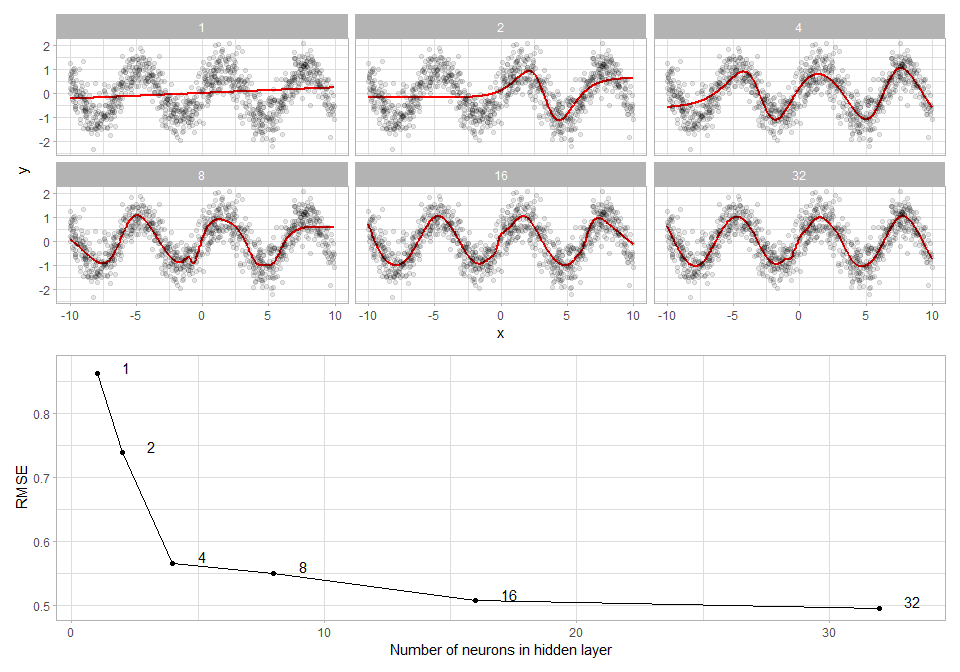
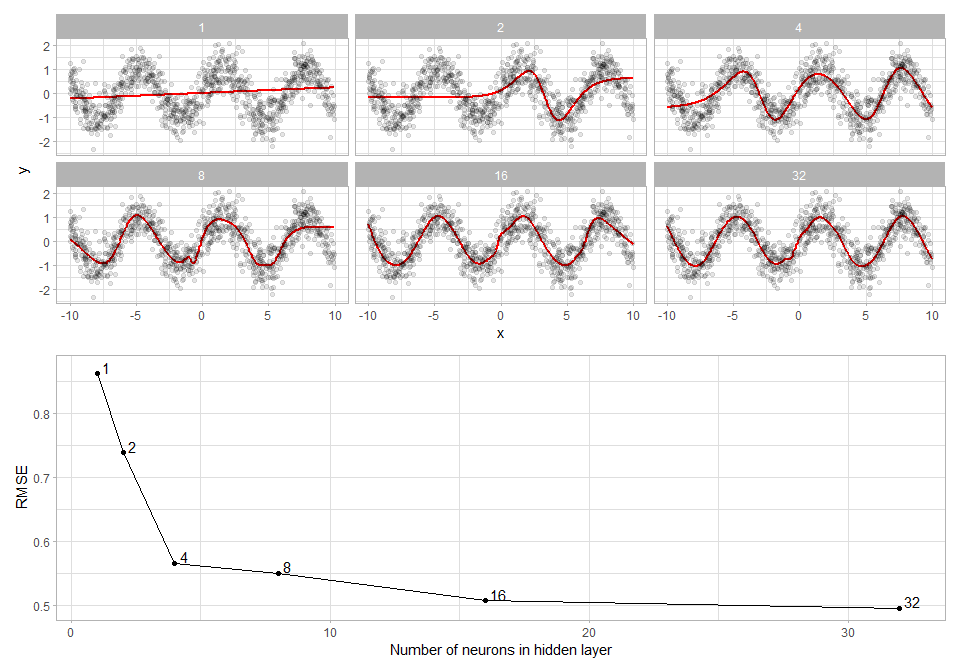
change nudge on plot

diff --git a/README.md b/README.md
@@ -64,7 +64,7 @@ p2 <- results %>%
     ggplot(aes(n, rmse, label = n)) +
     geom_point() +
     geom_line() +
-    geom_text(hjust = "left", nudge_x = 1, nudge_y = .01) +
+    geom_text(hjust = "left", nudge_x = .2, nudge_y = .01) +
     labs(x = "Number of neurons in hidden layer",
          y = "RMSE")
 
